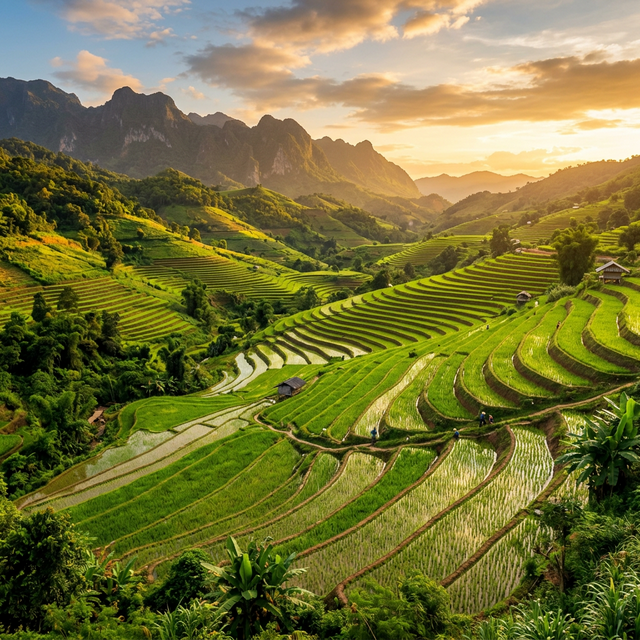
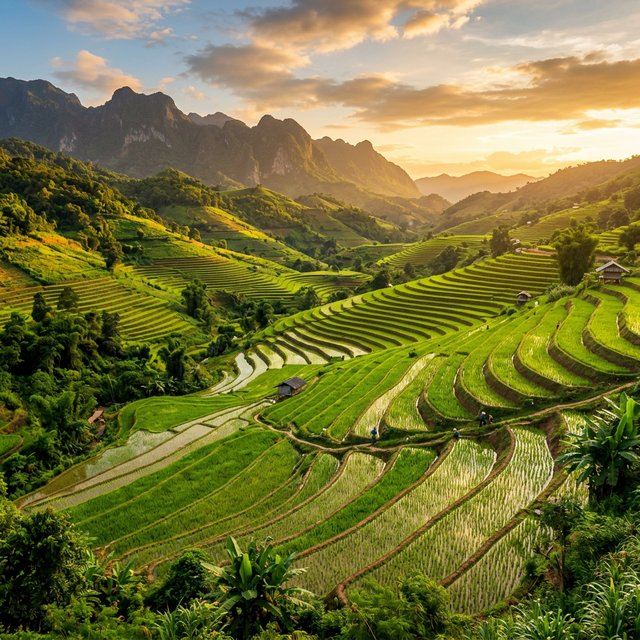
Final Pass.

Changed region(s): [[0.6562, 0.4375, 0.8125, 0.4688]]

diff --git a/lib/rateLimit.ts b/lib/rateLimit.ts
@@ -13,19 +13,24 @@ export async function checkRateLimit(
     });
     if (error) {
       console.error('Rate limit check error:', error);
-      return true; // fail open
+      return false; // fail closed: if we can't verify the limit, don't allow the request
     }
     return data === true;
   } catch (err) {
     console.error('Rate limit error:', err);
-    return true;
+    return false; // fail closed, same reasoning as above
   }
 }
 
 export function clientIp(req: Request): string {
-  return (
-    req.headers.get('x-forwarded-for')?.split(',')[0]?.trim() ??
-    req.headers.get('x-real-ip') ??
-    'unknown'
-  );
+  // X-Forwarded-For is a comma-separated chain: client-claimed value first,
+  // each trusted proxy's own value appended after. The LAST entry is the one
+  // added by our own edge (Vercel) and can't be spoofed by the client, the
+  // first entry can be set to anything by whoever sends the request.
+  const forwarded = req.headers.get('x-forwarded-for');
+  if (forwarded) {
+    const parts = forwarded.split(',').map((p) => p.trim()).filter(Boolean);
+    if (parts.length > 0) return parts[parts.length - 1];
+  }
+  return req.headers.get('x-real-ip') ?? 'unknown';
 }

diff --git a/config/images.ts b/config/images.ts
@@ -1,9 +1,9 @@
 export const images = {
   day0: '/images/day-0-leaving-office.png',
-  sixtyDay: '/images/plane-ticket-schedule.jpg',
+  sixtyDay: '/images/plane-ticket-schedule.png',
   lettingGo: '/mountainofclothes.jpg',
   sorting: '/mountainofclothes.jpg',
-  baliAtm: '/images/bali-atm.jpg',
+  baliAtm: '/images/bali-atm.png',
   about: '/FB_Pic.jpg',
   hero: '/images/rice-fields.jpg',
   wetWipes: '/images/bathroom-travel-sign.jpg',
